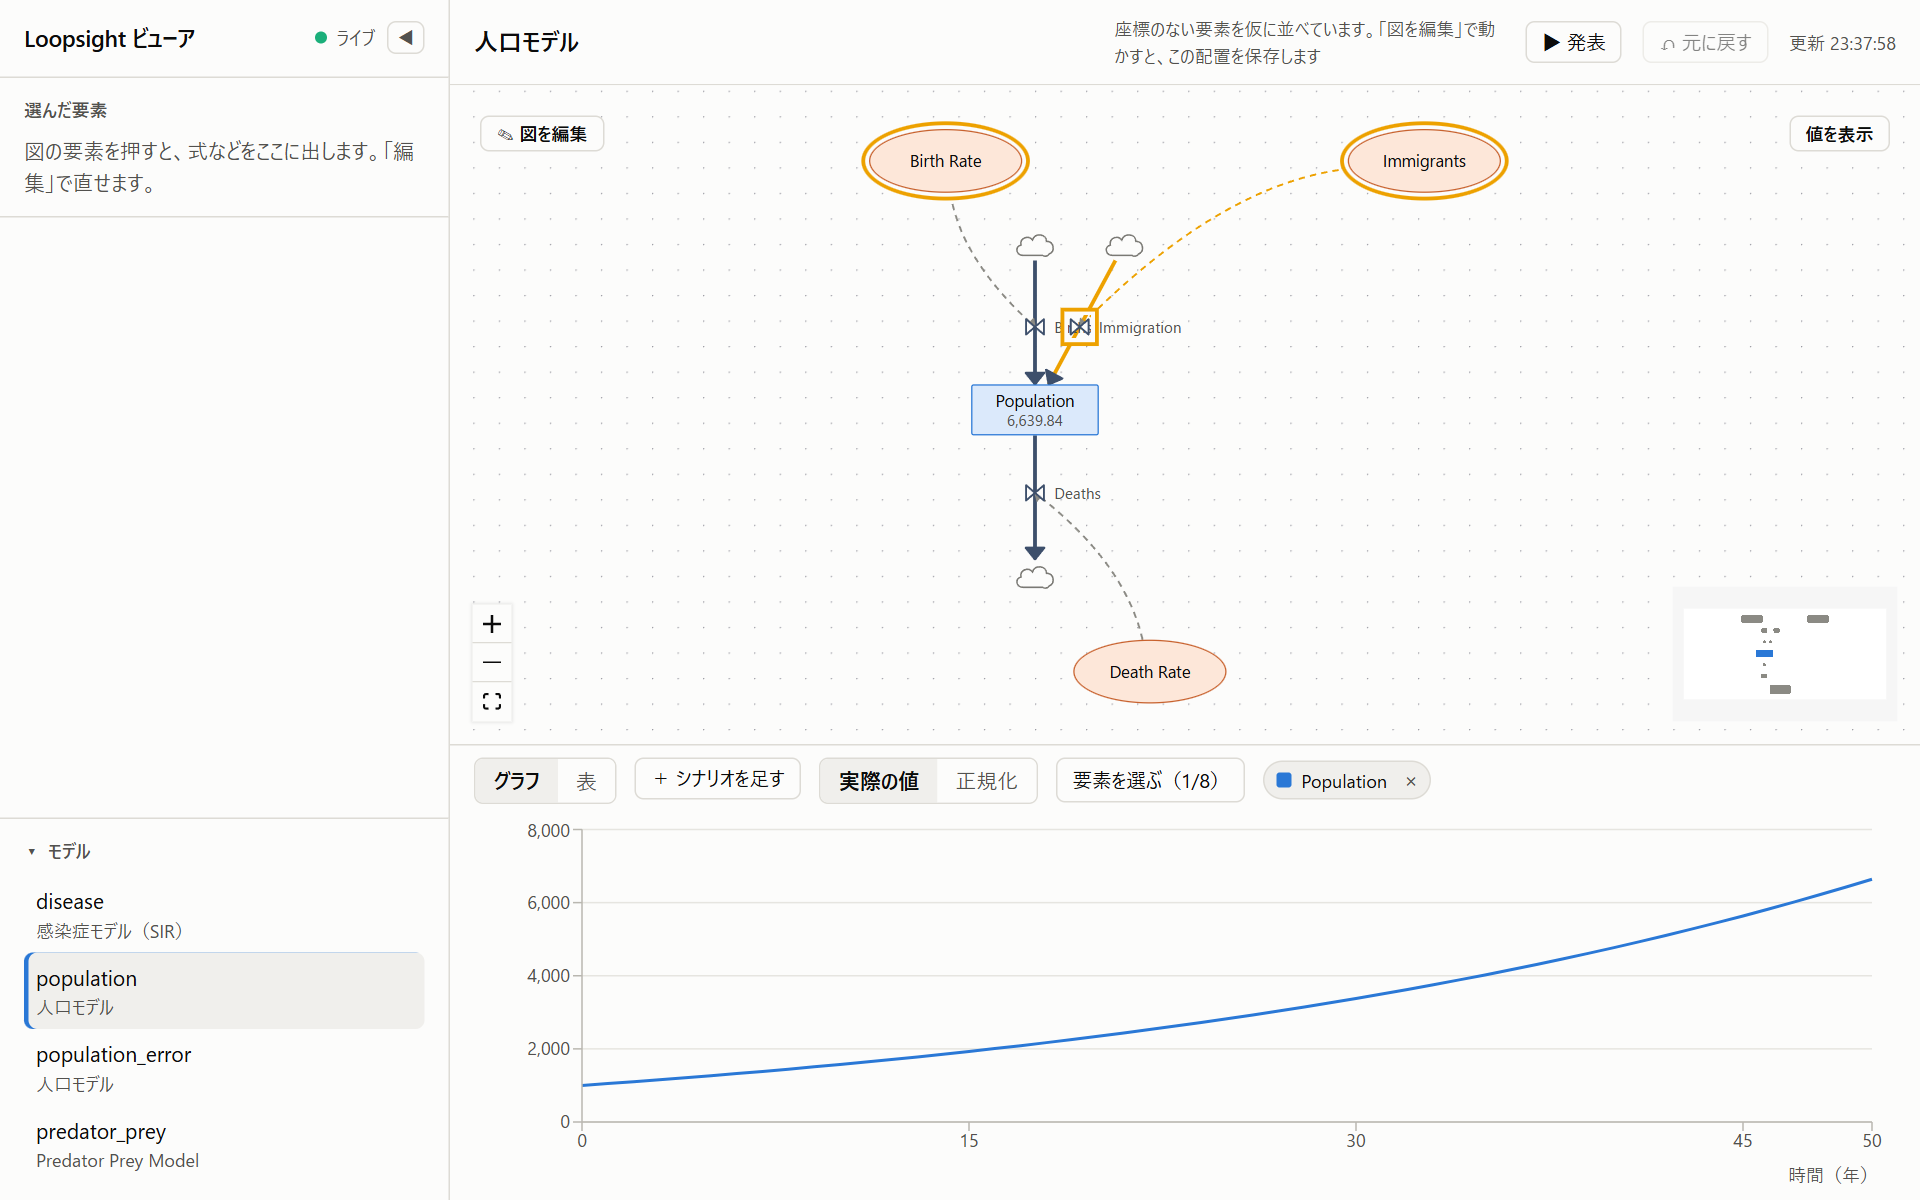
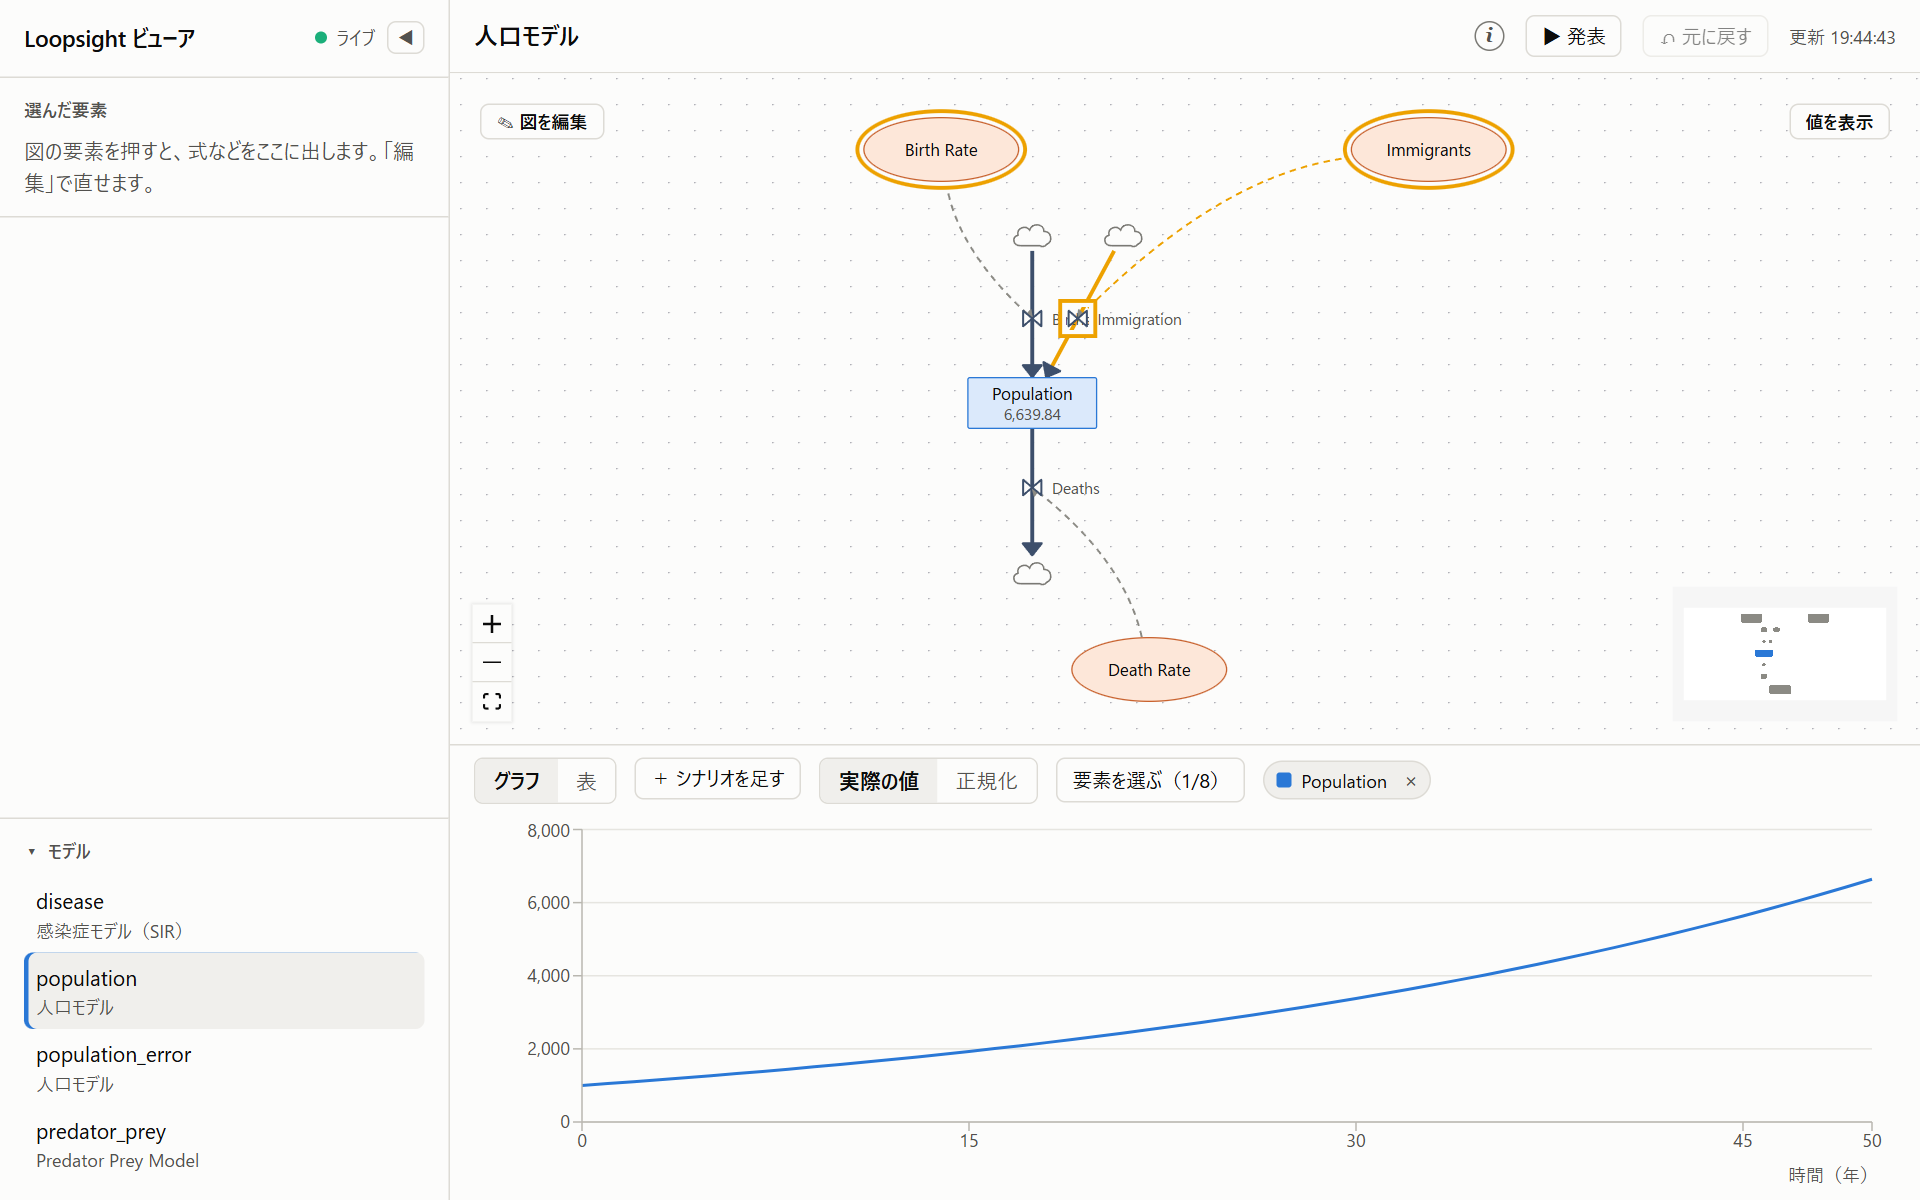
ビューア：座標のない要素の説明文を「i」アイコンにして、上の帯を 1 行に収める (#6)
- 説明文は押すと吹き出しで出す（カーソルを乗せたときは title）。キーボードで開け閉めでき、aria-label に全文を入れた
- モデルの説明は名前の右に 1 行で並べ、入りきらない分は「…」で省略する
- docs/VIEWER.md の説明とスクリーンショットを新しい見た目に合わせた

diff --git a/web/src/styles.css b/web/src/styles.css
@@ -392,20 +392,29 @@ button.link {
   background: var(--surface-1);
   border-bottom: 1px solid var(--border);
 }
+/* 上の帯を 1 行に収めるため、モデルの説明は名前の右に並べる。
+   どちらも 1 行に収め、入りきらないぶんは「…」で省略する（全文はカーソルを乗せると出る） */
 .toolbar .title {
+  display: flex;
+  align-items: baseline;
+  gap: 12px;
   min-width: 0;
+}
+.toolbar .title h2,
+.toolbar .title p {
+  white-space: nowrap;
+  overflow: hidden;
+  text-overflow: ellipsis;
 }
 .toolbar .title h2 {
   font-size: 16px;
 }
-/* 長い説明は 2 行まで（全文はカーソルを乗せると出る） */
+/* 名前が長くても、説明があることは分かるように、説明の幅を少し残す（名前のほうを省略する） */
 .toolbar .title p {
+  flex: 1 1 0;
+  min-width: 4em;
   margin: 0;
   font-size: 12px;
-  display: -webkit-box;
-  -webkit-line-clamp: 2;
-  -webkit-box-orient: vertical;
-  overflow: hidden;
 }
 .toolbar-right {
   display: flex;
@@ -414,13 +423,41 @@ button.link {
   flex: none;
   white-space: nowrap;
 }
-.toolbar-right .note {
-  white-space: normal;
-  max-width: 260px;
+/* 「i」アイコン（InfoTip）。押すと、アイコンの下に説明文を出す */
+.info-tip {
+  position: relative;
+  display: inline-flex;
 }
-.note {
-  font-size: 12px;
+button.info-button {
+  width: 20px;
+  height: 20px;
+  padding: 0;
+  border-radius: 50%;
+  border: 1px solid var(--text-muted);
+  background: var(--surface-1);
   color: var(--text-secondary);
+  font: italic bold 13px/1 Georgia, "Times New Roman", serif;
+  cursor: pointer;
+}
+button.info-button:hover,
+button.info-button[aria-expanded="true"] {
+  background: var(--surface-2);
+  color: var(--text-primary);
+}
+.info-popover {
+  position: absolute;
+  top: calc(100% + 6px);
+  right: 0;
+  z-index: 20;
+  width: 260px;
+  padding: 8px 10px;
+  white-space: normal;
+  font-size: 12px;
+  color: var(--text-primary);
+  background: var(--surface-1);
+  border: 1px solid var(--border);
+  border-radius: 8px;
+  box-shadow: 0 4px 16px rgb(0 0 0 / 0.16);
 }
 .banner {
   padding: 8px 16px;
@@ -2021,6 +2058,16 @@ button.scenario-chip-button.on {
   .toolbar {
     flex-direction: column;
     align-items: flex-start;
+  }
+  /* 名前と説明は 1 行のままなので、画面の幅で止めて「…」で省略する（横にはみ出さないように） */
+  .toolbar .title {
+    max-width: 100%;
+  }
+  /* 縦に並べると「i」が左に来るので、説明文はアイコンの左端から右へ開き、画面からはみ出さないようにする */
+  .info-popover {
+    left: 0;
+    right: auto;
+    max-width: calc(100vw - 32px);
   }
 }
 

diff --git a/web/src/InfoTip.tsx b/web/src/InfoTip.tsx
@@ -1,0 +1,59 @@
+import { useEffect, useId, useRef, useState } from "react";
+
+/**
+ * 「i」アイコン。押すと説明文を出す（カーソルを乗せたときは、ツールチップで出す）。
+ * 上の帯を 1 行に収めるため、長い説明文は帯に並べずにこのアイコンにしまう。画面の大きさにかかわらず、いつもアイコンで出す。
+ * 読み上げでは、アイコンの名前として説明文の全文を読む。
+ */
+export function InfoTip({ text }: { text: string }) {
+  const [open, setOpen] = useState(false);
+  const rootRef = useRef<HTMLSpanElement>(null);
+  const buttonRef = useRef<HTMLButtonElement>(null);
+  const popoverId = useId();
+
+  // 外を押したら閉じる
+  useEffect(() => {
+    if (!open) return;
+    const onDown = (e: PointerEvent) => {
+      if (!rootRef.current?.contains(e.target as Node)) setOpen(false);
+    };
+    document.addEventListener("pointerdown", onDown);
+    return () => document.removeEventListener("pointerdown", onDown);
+  }, [open]);
+
+  return (
+    <span
+      className="info-tip"
+      ref={rootRef}
+      onKeyDown={(e) => {
+        if (e.key === "Escape" && open) {
+          e.stopPropagation();
+          setOpen(false);
+          buttonRef.current?.focus();
+        }
+      }}
+      onBlur={(e) => {
+        // Tab でほかへ移ったら閉じる（説明文の中を押したときは移り先がないので閉じない）
+        if (open && e.relatedTarget && !rootRef.current?.contains(e.relatedTarget as Node)) setOpen(false);
+      }}
+    >
+      <button
+        ref={buttonRef}
+        className="info-button"
+        aria-label={text}
+        aria-expanded={open}
+        aria-controls={open ? popoverId : undefined}
+        // 開いている間は、ブラウザのツールチップを重ねて出さない
+        title={open ? undefined : text}
+        onClick={() => setOpen(!open)}
+      >
+        <span aria-hidden="true">i</span>
+      </button>
+      {open && (
+        <span id={popoverId} className="info-popover" role="note">
+          {text}
+        </span>
+      )}
+    </span>
+  );
+}

diff --git a/web/src/App.tsx b/web/src/App.tsx
@@ -7,6 +7,7 @@ import { Details } from "./Details.js";
 import { Diagram, type LinkEnds, type NodeValues, type ScenarioMarks, type SelectedFormula, type ValueTools } from "./Diagram.js";
 import { nodeValues, peakIndex, timeIndex, valueScenarioNames, valueScenarioRun } from "./diagramValues.js";
 import { formulaView } from "./formulaValues.js";
+import { InfoTip } from "./InfoTip.js";
 import { addElementPatches, linkProblem, linkRemoveProblem, reconnectPatches, renamedName, type FlowEnd, type NewElementType } from "./editing.js";
 import { toGraph } from "../../src/core/diagram.js";
 import { LOOP_KIND_LABEL, type LoopView } from "../../src/core/loops.js";
@@ -878,7 +879,7 @@ export function App() {
       <main className="main" ref={mainRef}>
         <div className="toolbar">
           <div className="title">
-            <h2>{title || "モデルを選んでください"}</h2>
+            <h2 title={title}>{title || "モデルを選んでください"}</h2>
             {data?.model.description && (
               <p className="muted" title={data.model.description}>
                 {data.model.description}
@@ -887,7 +888,7 @@ export function App() {
           </div>
           {graph && data && (
             <div className="toolbar-right">
-              {graph.missingCoordinates && <span className="note">座標のない要素を仮に並べています。「図を編集」で動かすと、この配置を保存します</span>}
+              {graph.missingCoordinates && <InfoTip text="座標のない要素を仮に並べています。「図を編集」で動かすと、この配置を保存します" />}
               <a
                 className="toolbar-button"
                 href={`?view=present#${encodeURIComponent(data.name)}`}

diff --git a/docs/VIEWER.md b/docs/VIEWER.md
@@ -79,7 +79,7 @@ npm run viewer -- --models-dir D:/work/models --port 5181
 | 左の「選んだ要素」 | 図の要素を押すと、式などの詳しい情報が出ます。よく使うので、いちばん上にあります（[要素の詳しい情報](#要素の詳しい情報)） |
 | 左の「問題」 | モデルにエラーや警告があるときだけ出ます（[エラーがあるとき](#エラーがあるとき)） |
 | 左下の「モデル」 | 作業フォルダのモデルの一覧です。上の行がファイル名、下の行がモデルの名前です。押すとそのモデルを開きます。見出しを押すと一覧を閉じたり開いたりできます（閉じているあいだはモデルの数を出します）。開け閉めはブラウザが覚えています |
-| 上の帯 | モデルの名前と説明、「▶ 発表」（[発表モード](#発表モード説明資料)を別のタブで開く）、「元に戻す」、最後に読み込んだ時刻 |
+| 上の帯 | モデルの名前と説明、「i」（座標のない要素があるときだけ。[配置](#配置)）、「▶ 発表」（[発表モード](#発表モード説明資料)を別のタブで開く）、「元に戻す」、最後に読み込んだ時刻。帯は 1 行で、名前と説明が入りきらないときは「…」で省略します（カーソルを乗せると全部出ます） |
 | 真ん中 | モデルの図です（[図の見方](#図の見方)）。左上の「✎ 図を編集」で[編集モード](#編集モード)を、右上の「値を表示」で[要素の値の表示](#図に値を出す)を切り替えます |
 | 下 | 実行結果のグラフと表です（[グラフと表](#グラフと表)） |
 
@@ -124,7 +124,7 @@ npm run viewer -- --models-dir D:/work/models --port 5181
 
 モデルに座標（図の上の位置）があれば、そのとおりに描きます。
 
-座標のない要素が 1 つでもあると、その要素だけを簡易レイアウトで仮に並べます（AI の `layout_model` と同じ並べ方です）。上の帯に「座標のない要素を仮に並べています」と出ます。仮の並びはファイルに保存しませんが、編集モードで要素を 1 つでも動かすと、そのとき見えている配置をまとめて保存します。
+座標のない要素が 1 つでもあると、その要素だけを簡易レイアウトで仮に並べます（AI の `layout_model` と同じ並べ方です）。上の帯に「i」のアイコンが出ます。押すと（カーソルを乗せても）、仮に並べていることと、保存のしかたの説明が出ます。仮の並びはファイルに保存しませんが、編集モードで要素を 1 つでも動かすと、そのとき見えている配置をまとめて保存します。
 
 配置を整えるときは、次の 2 つの方法があります。
 
